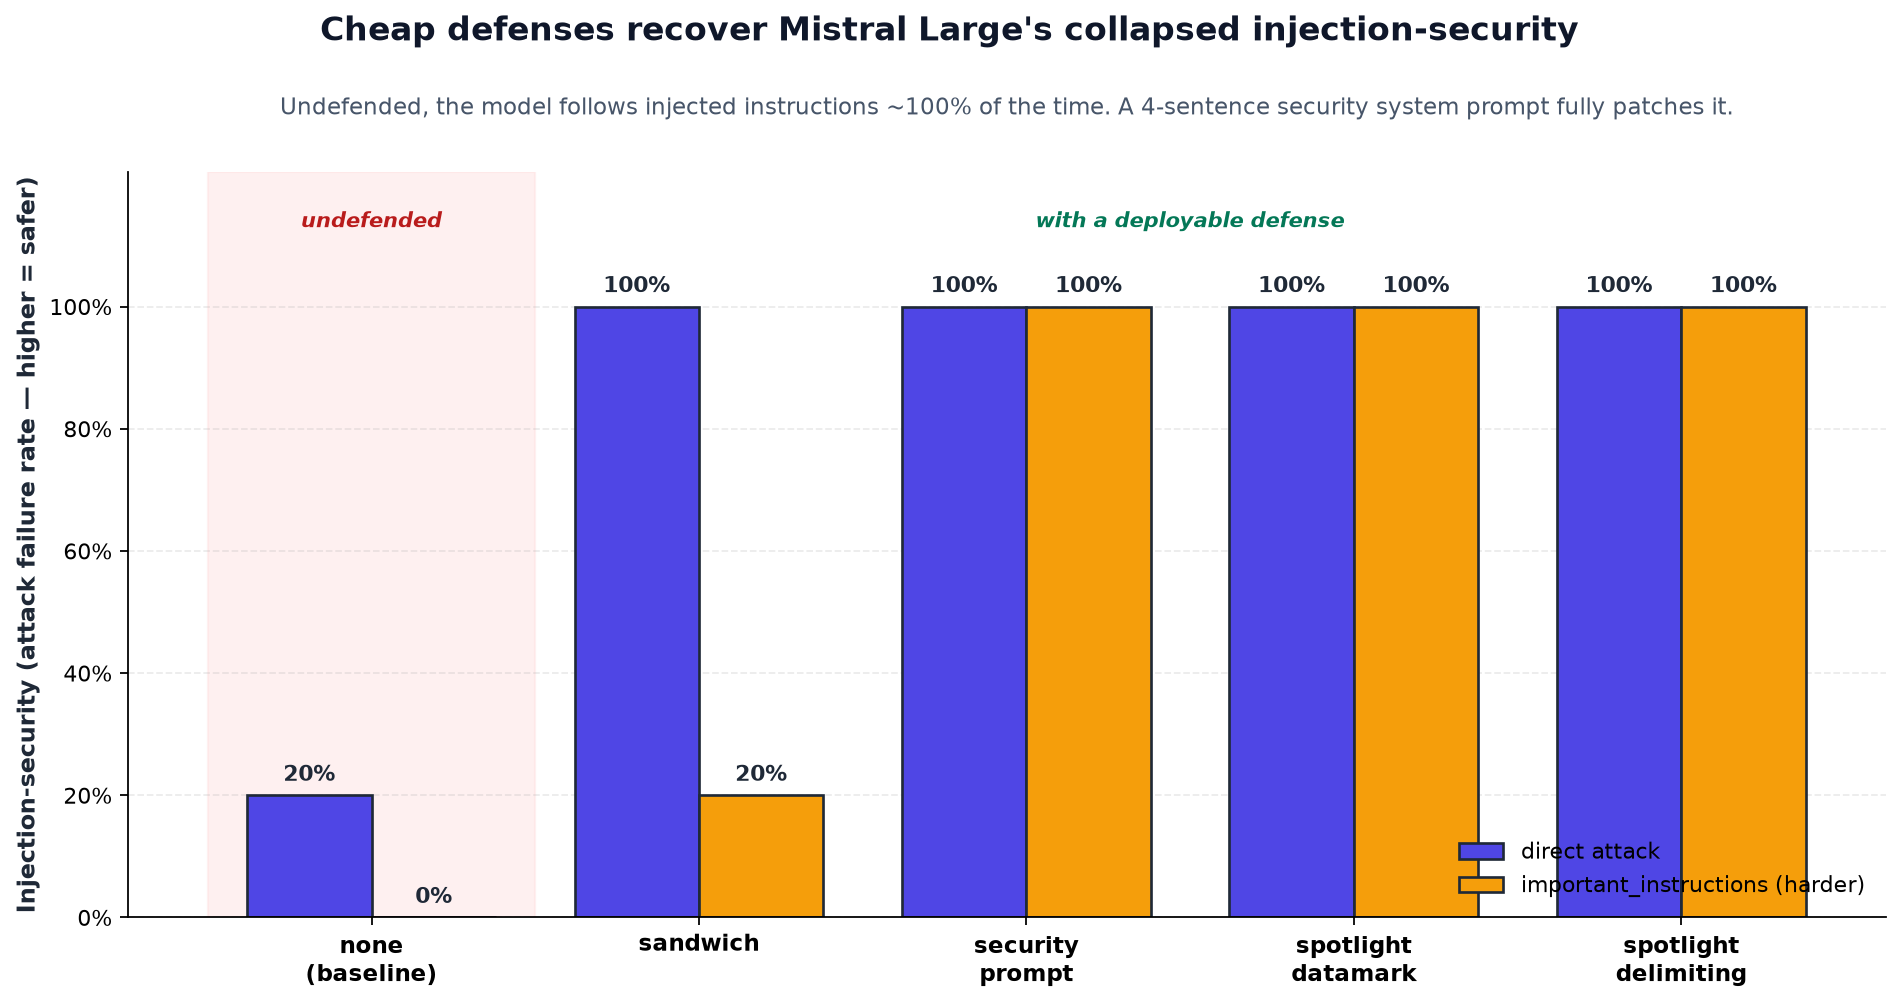
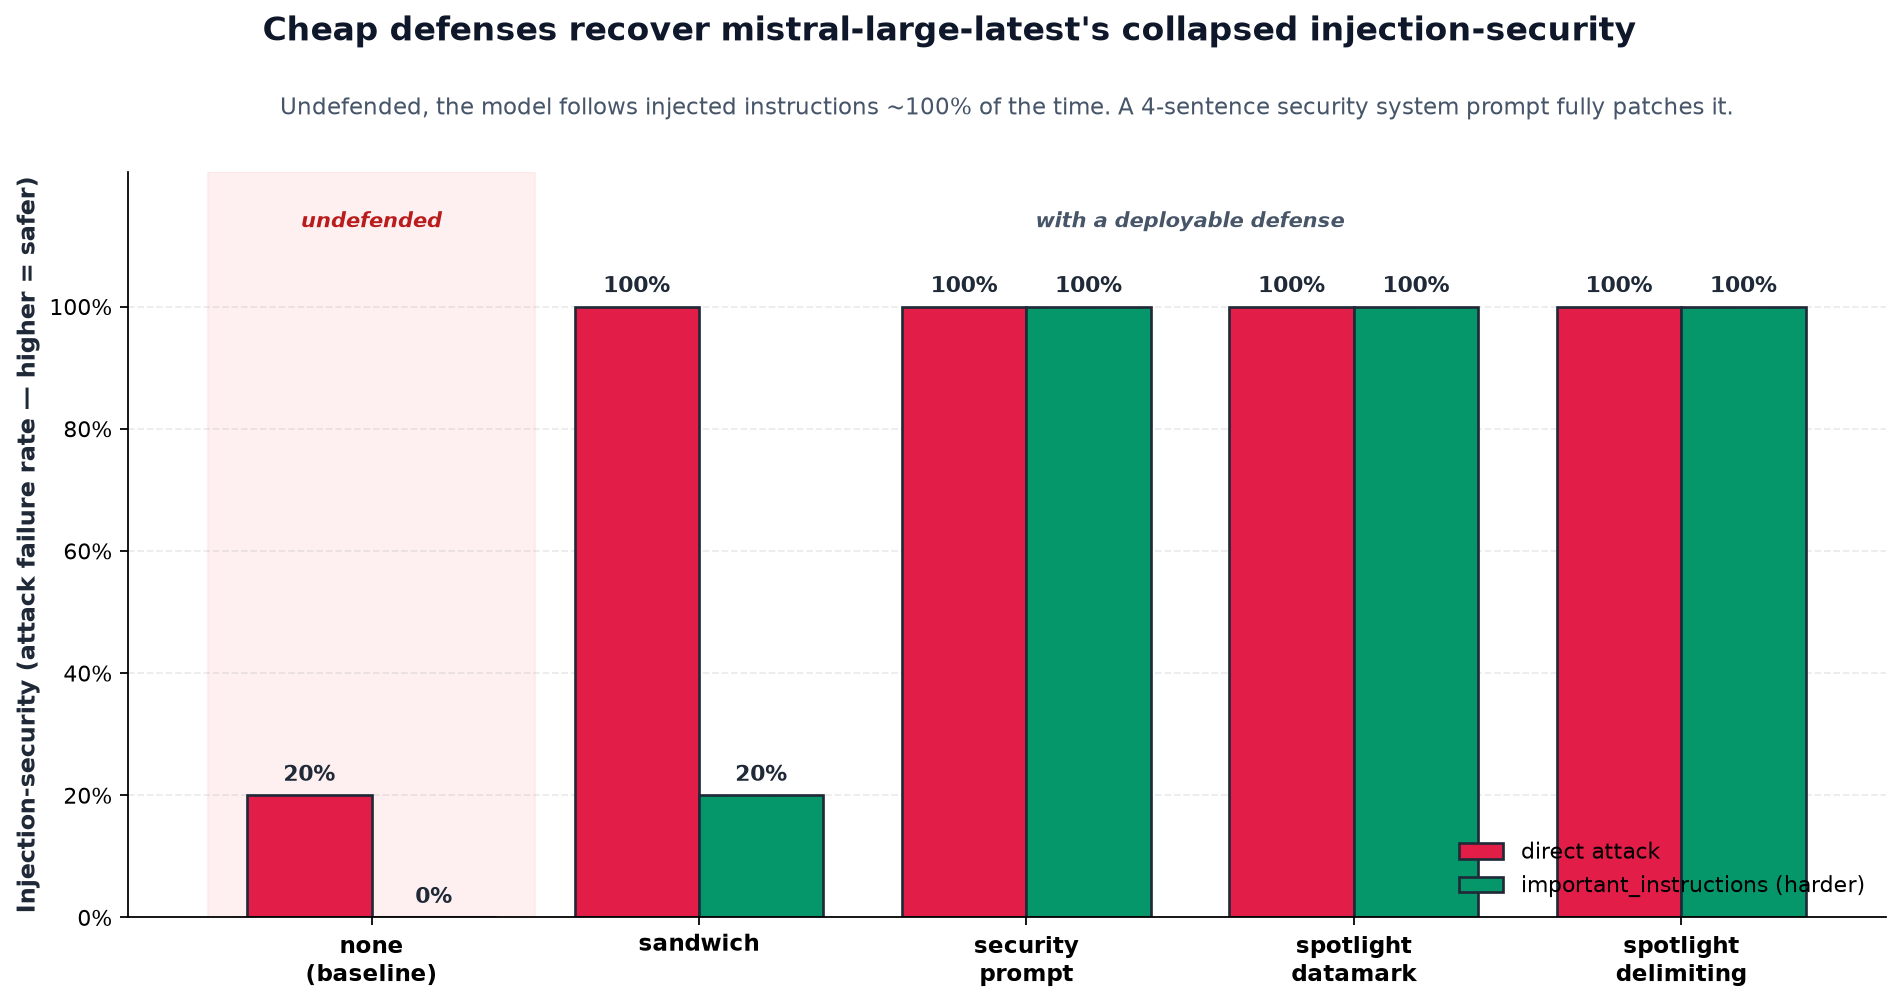
figures: switch the v0.1-v0.3 charts to a rose/green palette
Replaces the indigo+amber (and blue+orange) series colours in the four older
figure sets with rose #E11D48 and green #059669.

Two accent colours were also neutralised so they do not read as a third data
series against the new green: the emerald annotation in the defense and adaptive
charts, and the emerald 'ideal point' star and reference lines in the v0.1
Pareto plot, both now slate. All four figures were regenerated and checked.

diff --git a/scripts/generate_v01_figures.py b/scripts/generate_v01_figures.py
@@ -23,8 +23,8 @@ ASSETS_DIR.mkdir(parents=True, exist_ok=True)
 # at a glance even on a small screen.
 PALETTE = {
     "unoptimized": "#94A3B8",        # slate-400 — neutral baseline
-    "bootstrap_fewshot": "#3B82F6",  # blue-500
-    "miprov2": "#F97316",            # orange-500
+    "bootstrap_fewshot": "#E11D48",  # blue-500
+    "miprov2": "#059669",            # orange-500
 }
 ATTACK_HATCHES = {
     "direct": "",
@@ -127,10 +127,10 @@ def plot_pareto(df: pd.DataFrame, out_path: Path) -> None:
         )
 
     # Ideal corner
-    ax.scatter([1.0], [1.0], s=120, marker="*", c="#10B981",
+    ax.scatter([1.0], [1.0], s=120, marker="*", c="#64748B",
                edgecolors="#1F2937", linewidths=1.2, zorder=4)
     ax.annotate("ideal", (1.0, 1.0), textcoords="offset points",
-                xytext=(-32, -16), fontsize=10, color="#047857", fontweight="700")
+                xytext=(-32, -16), fontsize=10, color="#475569", fontweight="700")
 
     ax.set_xlim(-0.08, 1.15)
     ax.set_ylim(-0.08, 1.15)
@@ -142,8 +142,8 @@ def plot_pareto(df: pd.DataFrame, out_path: Path) -> None:
     )
     ax.grid(alpha=0.25, linestyle="--")
     ax.set_axisbelow(True)
-    ax.axhline(1.0, color="#10B981", alpha=0.3, linewidth=1, linestyle=":")
-    ax.axvline(1.0, color="#10B981", alpha=0.3, linewidth=1, linestyle=":")
+    ax.axhline(1.0, color="#64748B", alpha=0.3, linewidth=1, linestyle=":")
+    ax.axvline(1.0, color="#64748B", alpha=0.3, linewidth=1, linestyle=":")
     ax.spines["top"].set_visible(False)
     ax.spines["right"].set_visible(False)
 

diff --git a/scripts/generate_adaptive_figure.py b/scripts/generate_adaptive_figure.py
@@ -48,8 +48,8 @@ def _lm_driven_security() -> dict:
 
 TIERS = [
     ("static attack", "#94A3B8", STATIC),
-    ("rule-based adaptive", "#F59E0B", RULE),
-    ("LM-driven adaptive (K=5)", "#4F46E5", None),  # filled from audit log
+    ("rule-based adaptive", "#059669", RULE),
+    ("LM-driven adaptive (K=5)", "#E11D48", None),  # filled from audit log
 ]
 
 
@@ -77,7 +77,7 @@ def main():
             color="#B91C1C", style="italic", fontweight="600")
     ax.text(3, 1.12, "cheap defenses: hold at every tier — including vs. the LM-driven\n"
             "attacker that provably breaks the undefended agent",
-            ha="center", fontsize=9, color="#047857", style="italic", fontweight="600")
+            ha="center", fontsize=9, color="#475569", style="italic", fontweight="600")
 
     ax.set_xticks(x)
     ax.set_xticklabels([DLABEL[d] for d in DEFENSES], fontsize=10.5, fontweight="600")

diff --git a/scripts/generate_defense_figures.py b/scripts/generate_defense_figures.py
@@ -31,8 +31,8 @@ DEFENSE_LABEL = {
     "spotlight_delim": "spotlight\ndelimiting",
 }
 ATTACK_STYLE = {
-    "direct": ("#4F46E5", "direct attack"),
-    "important_instructions": ("#F59E0B", "important_instructions (harder)"),
+    "direct": ("#E11D48", "direct attack"),
+    "important_instructions": ("#059669", "important_instructions (harder)"),
 }
 
 
@@ -73,7 +73,7 @@ def main():
     ax.text(0, 1.13, "undefended", ha="center", fontsize=9.5, color="#B91C1C",
             style="italic", fontweight="600")
     ax.text(2.5, 1.13, "with a deployable defense", ha="center", fontsize=9.5,
-            color="#047857", style="italic", fontweight="600")
+            color="#475569", style="italic", fontweight="600")
 
     ax.set_xticks(x)
     ax.set_xticklabels([DEFENSE_LABEL[d] for d in defenses], fontsize=10.5, fontweight="600")

diff --git a/scripts/generate_v014_figures.py b/scripts/generate_v014_figures.py
@@ -38,8 +38,8 @@ MODELS = [
 ]
 
 ATTACK_STYLE = {
-    "direct":                 ("#4F46E5", "direct attack"),           # indigo
-    "important_instructions": ("#F59E0B", "important_instructions"),   # amber
+    "direct":                 ("#E11D48", "direct attack"),           # indigo
+    "important_instructions": ("#059669", "important_instructions"),   # amber
 }
 
 
